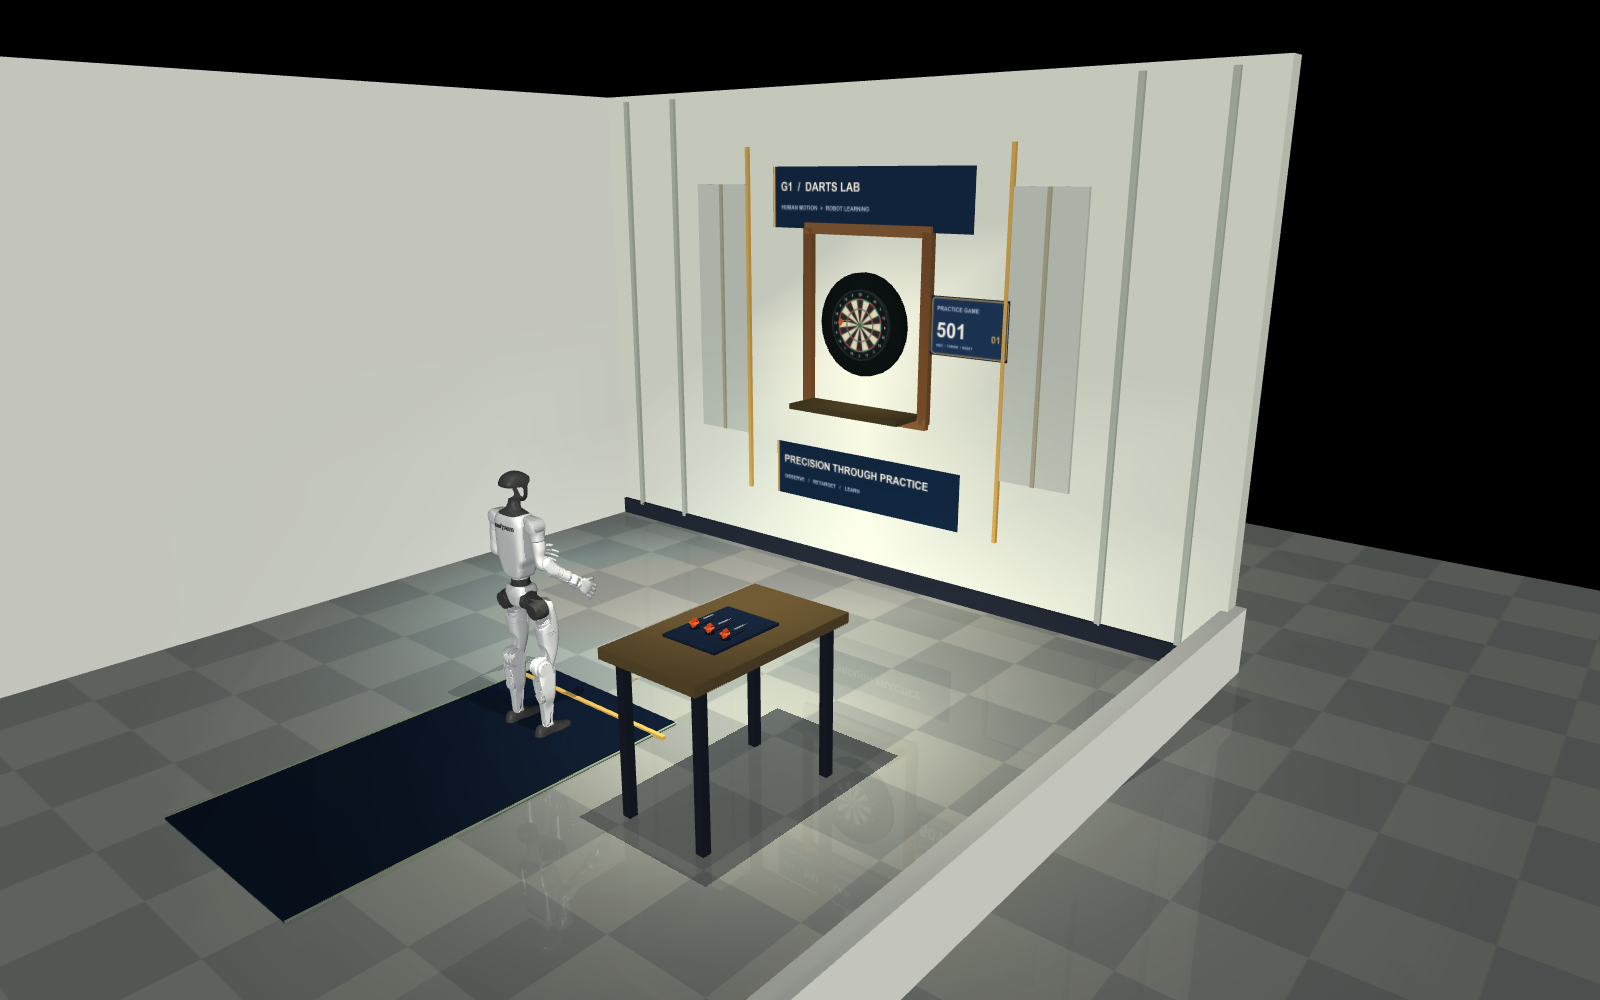
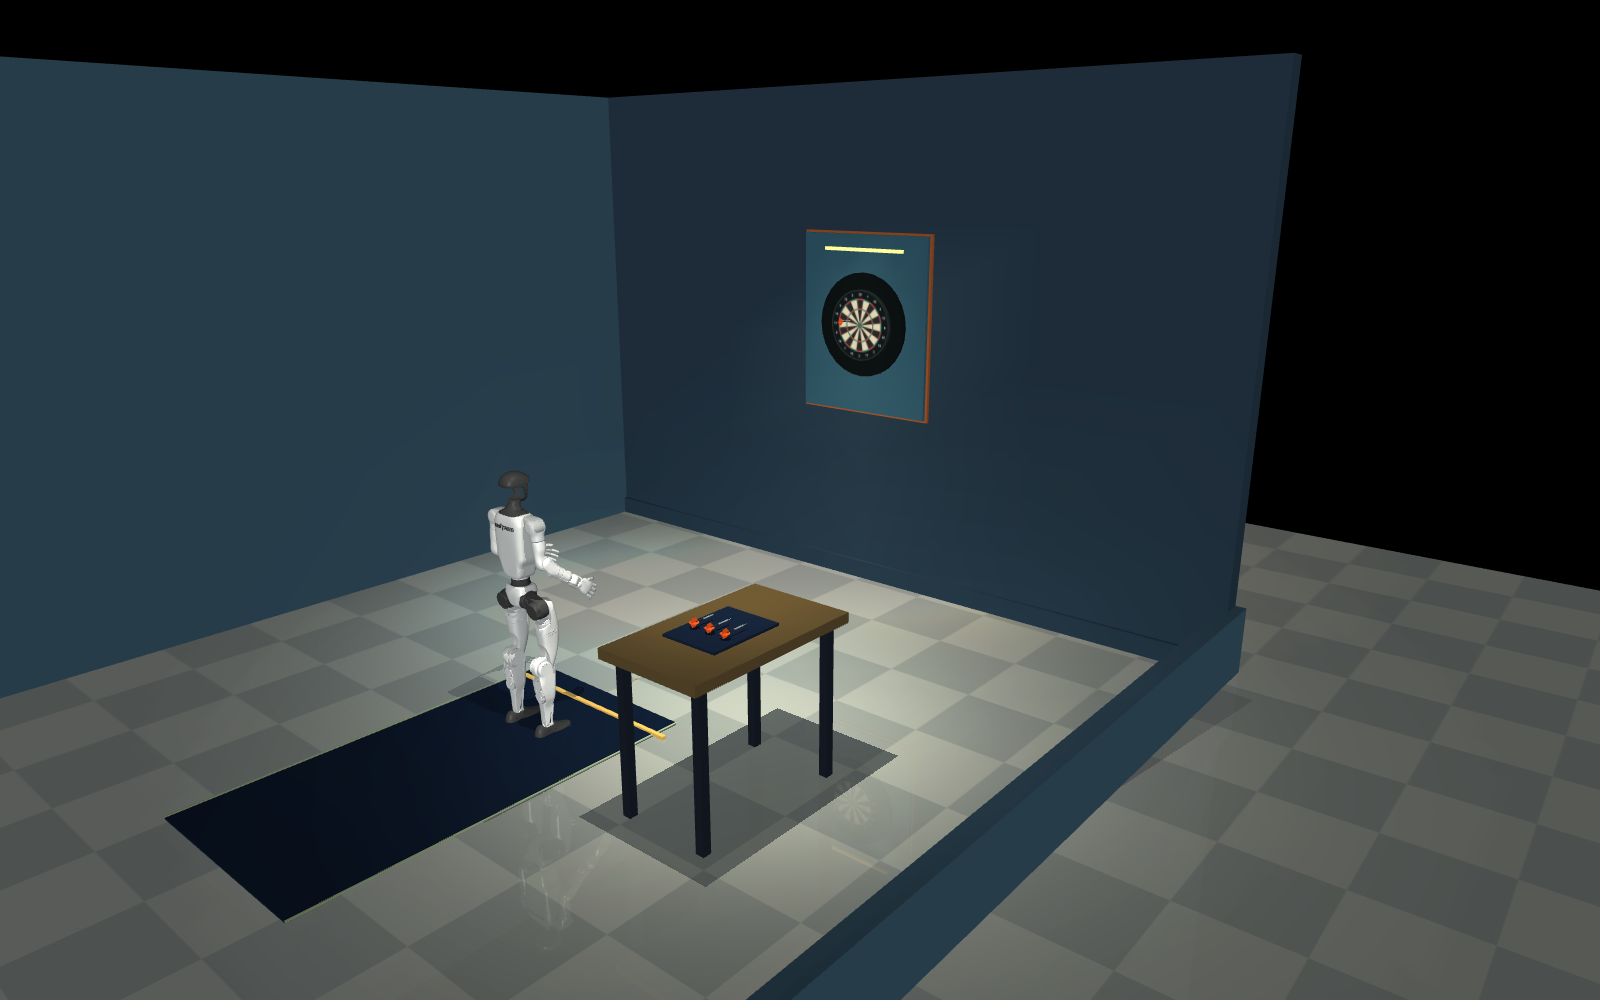
Rebuild the MuJoCo room and dartboard wall

diff --git a/lab/build_scene.py b/lab/build_scene.py
@@ -149,7 +149,7 @@ def build():
     world = add(scene, "worldbody")
     add(world, "light", name="key", pos=".2 -1.2 3", dir=".3 .1 -1", diffuse=".85 .83 .75", castshadow="true")
     add(world, "light", name="fill", pos="1.7 1.8 2.7", dir="0 -.3 -1", diffuse=".45 .58 .62", castshadow="false")
-    add(world, "light", name="board_light", pos="2.65 0 2.45", dir=".4 0 -1", diffuse=".7 .65 .52", castshadow="false")
+    add(world, "light", name="board_light", pos="2.65 0 2.45", dir=".4 0 -1", diffuse=".88 .72 .55", castshadow="false")
     add(world, "camera", name="room", pos="-2.65 -4.2 2.65", xyaxes=".64 -.77 0 .22 .18 .96", fovy="49")
     add(world, "camera", name="board", pos="1.65 0 1.73", xyaxes="0 -1 0 0 0 1", fovy="36")
     add(world, "camera", name="robot", pos="1.65 -2.0 1.65", xyaxes=".83 .56 0 -.13 .19 .97", fovy="44")
@@ -158,19 +158,11 @@ def build():
     def box(name, pos, size, rgba, **extra):
         return add(world, "geom", name=name, type="box", pos=pos, size=size, rgba=rgba, **extra)
     add(world, "geom", name="floor", type="plane", size="6 6 .05", material="floor_mat", friction=".9 .01 .001")
-    box("front_wall", "3.14 0 1.6", ".06 2.45 1.6", ".82 .82 .77 1")
-    box("left_wall", ".65 2.46 1.6", "2.55 .05 1.6", ".90 .89 .85 1")
+    box("front_wall", "3.14 0 1.6", ".06 2.45 1.6", ".12 .18 .23 1")
+    box("left_wall", ".65 2.46 1.6", "2.55 .05 1.6", ".18 .27 .33 1")
     # Open camera-side wall and ceiling for an unobstructed inspection view.
-    box("right_wall_low", ".65 -2.46 .19", "2.55 .05 .19", ".90 .89 .85 1")
-    box("wall_base", "3.069 0 .06", ".012 2.45 .06", ".12 .14 .18 1")
-    # Slim architectural ribs and warm wall panels dress the practice bay.
-    for y in (-2.20, -1.72, 1.72, 2.20):
-        box(f"wall_rib_{y}", "3.075 "+str(y)+" 1.63", ".018 .018 1.53", ".64 .66 .61 1", contype="0", conaffinity="0")
-    for y in (-1.25, 1.25):
-        box(f"wall_inset_{y}", "3.071 "+str(y)+" 1.73", ".012 .23 .86", ".72 .73 .69 1", contype="0", conaffinity="0")
-        box(f"wall_inset_edge_{y}", "3.055 "+str(y)+" 1.73", ".01 .012 .86", ".62 .60 .50 1", contype="0", conaffinity="0")
-    box("accent_left", "3.065 -1.01 1.65", ".012 .012 1.18", ".78 .61 .30 1", contype="0", conaffinity="0")
-    box("accent_right", "3.065 1.01 1.65", ".012 .012 1.18", ".78 .61 .30 1", contype="0", conaffinity="0")
+    box("right_wall_low", ".65 -2.46 .19", "2.55 .05 .19", ".18 .27 .33 1")
+    box("wall_base", "3.069 0 .06", ".012 2.45 .06", ".12 .18 .23 1")
     box("lane_mat", "-.22 0 .004", "1.0 .53 .004", ".045 .085 .15 1", contype="0", conaffinity="0")
     box("oche", f"{OCHE_X} 0 .009", ".012 .61 .009", ".78 .61 .30 1", contype="0", conaffinity="0")
     for y in (-.54, .54):
@@ -178,20 +170,23 @@ def build():
     for x in (.95, 1.25, 1.55, 1.85, 2.15, 2.45):
         box(f"lane_dash_{x}", f"{x} 0 .001", ".06 .005 .001", ".58 .48 .33 1", contype="0", conaffinity="0")
     board = add(world, "body", name="dartboard", pos=f"{BOARD_X} 0 {BULL_Z}")
-    # Timber surround, mounted behind the impact face so the board remains clear.
-    box("cabinet_back", "3.105 0 1.73", ".020 .455 .555", ".30 .19 .10 1")
+    # Preserve the calibrated environment contacts behind the new visual wall treatment.
+    box("cabinet_back", "3.105 0 1.73", ".020 .455 .555", "0 0 0 0")
     for y in (-.465, .465):
-        box(f"cabinet_side_{y}", "3.075 "+str(y)+" 1.73", ".038 .035 .59", ".42 .27 .15 1")
+        box(f"cabinet_side_{y}", f"3.075 {y} 1.73", ".038 .035 .59", "0 0 0 0")
     for z in (1.14, 2.32):
-        box(f"cabinet_rail_{z}", f"3.075 0 {z}", ".038 .49 .035", ".48 .32 .18 1")
+        box(f"cabinet_rail_{z}", f"3.075 0 {z}", ".038 .49 .035", "0 0 0 0")
+    box("board_mount_trim", "3.072 0 1.73", ".014 .49 .58", ".52 .27 .14 1", contype="0", conaffinity="0")
+    box("board_mount_panel", "3.054 0 1.73", ".018 .475 .565", ".16 .29 .35 1", contype="0", conaffinity="0")
+    add(asset, "material", name="board_wall_light", rgba="1 .69 .36 1", emission=".75")
+    box("board_light_diffuser", "3.029 0 2.20", ".012 .30 .011", "1 .69 .36 1",
+        material="board_wall_light", contype="0", conaffinity="0")
     add(board, "geom", name="surround", type="cylinder", pos=".04 0 0", quat=".707106781 0 .707106781 0", size=".33 .018", rgba=".038 .055 .06 1")
     add(board, "geom", name="board_collision", type="cylinder", pos=".02 0 0", quat=".707106781 0 .707106781 0", size=".2255 .02", rgba=".12 .14 .14 1")
     add(board, "geom", name="board_art", type="mesh", mesh="board_face", pos="-.0004 0 0", material="dartboard_mat", contype="0", conaffinity="0", mass="0")
     add(board, "site", name="bullseye", pos="-.0005 0 0", size=".00635", rgba="1 0 0 0")
     add(board, "site", name="board_frame", pos="0 0 0", size=".005", rgba="0 1 0 0")
     add(world, "site", name="oche_center", pos=f"{OCHE_X} 0 0", size=".005", rgba="0 1 0 0")
-    for name, pos in (("header", "3.06 0 2.51"), ("panel", "3.06 0 .67")):
-        add(world, "geom", name=f"{name}_sign", type="mesh", mesh=f"{name}_mesh", pos=pos, material=f"{name}_mat", contype="0", conaffinity="0", mass="0")
     # Side equipment station; well clear of the throwing lane.
     box("table_top", ".48 -1.20 .77", ".48 .28 .025", ".31 .25 .15 1")
     for x in (.08, .88):
@@ -202,9 +197,8 @@ def build():
         add_dart(world, f"spare_dart_{i+1}", f".46 {y} .832", profile, free=(i == 0))
     # Wall-mounted sample dart makes the scale and flight silhouette easy to inspect.
     add_dart(world, "display_dart", "2.985 .080 1.755", profile)
-    add(world, "geom", name="score_panel_sign", type="mesh", mesh="score_panel_mesh", pos="3.055 -.77 1.77", material="score_panel_mat", contype="0", conaffinity="0", mass="0")
-    # A subtle equipment shelf below the board.
-    box("board_shelf", "2.94 0 1.18", ".13 .43 .018", ".24 .20 .12 1")
+    # Preserve the original shelf contact footprint beneath the visual panel.
+    box("board_shelf", "2.94 0 1.18", ".13 .43 .018", "0 0 0 0")
     ET.indent(scene, space="  ")
     ET.ElementTree(scene).write(ROOT / "scene.xml", encoding="unicode")
     settings = {
